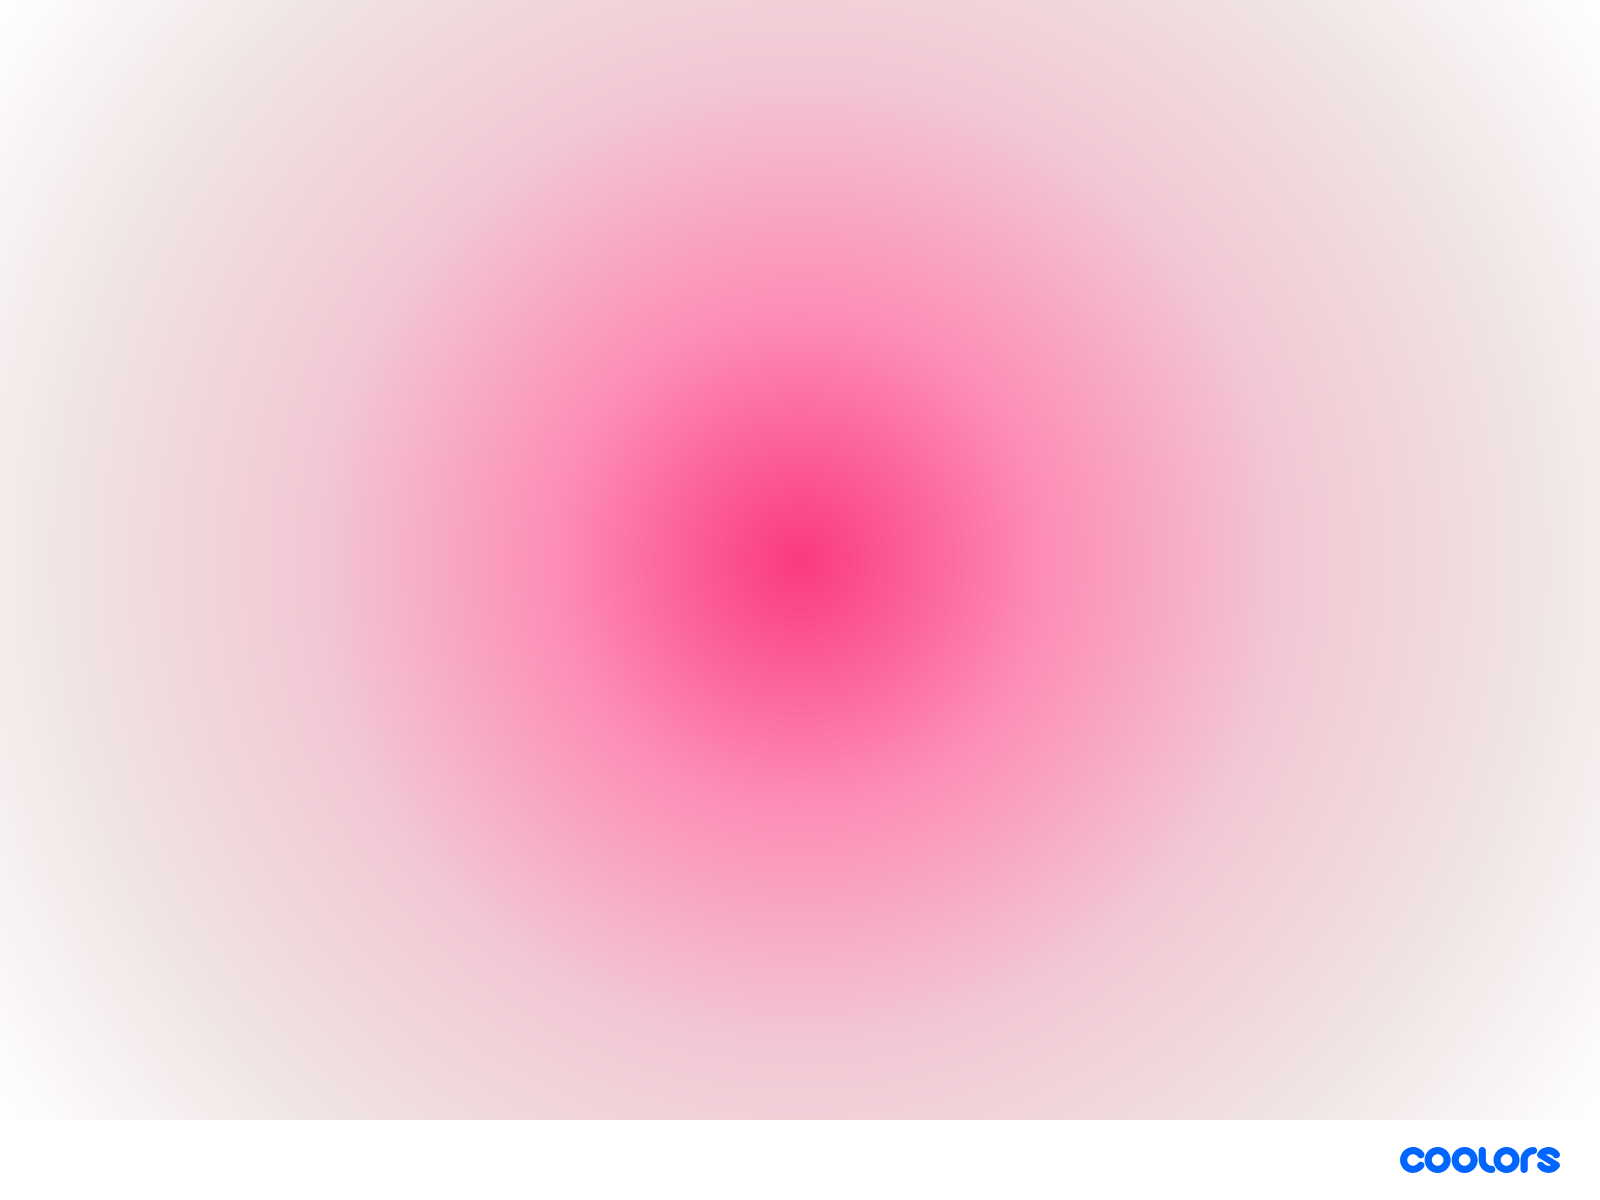
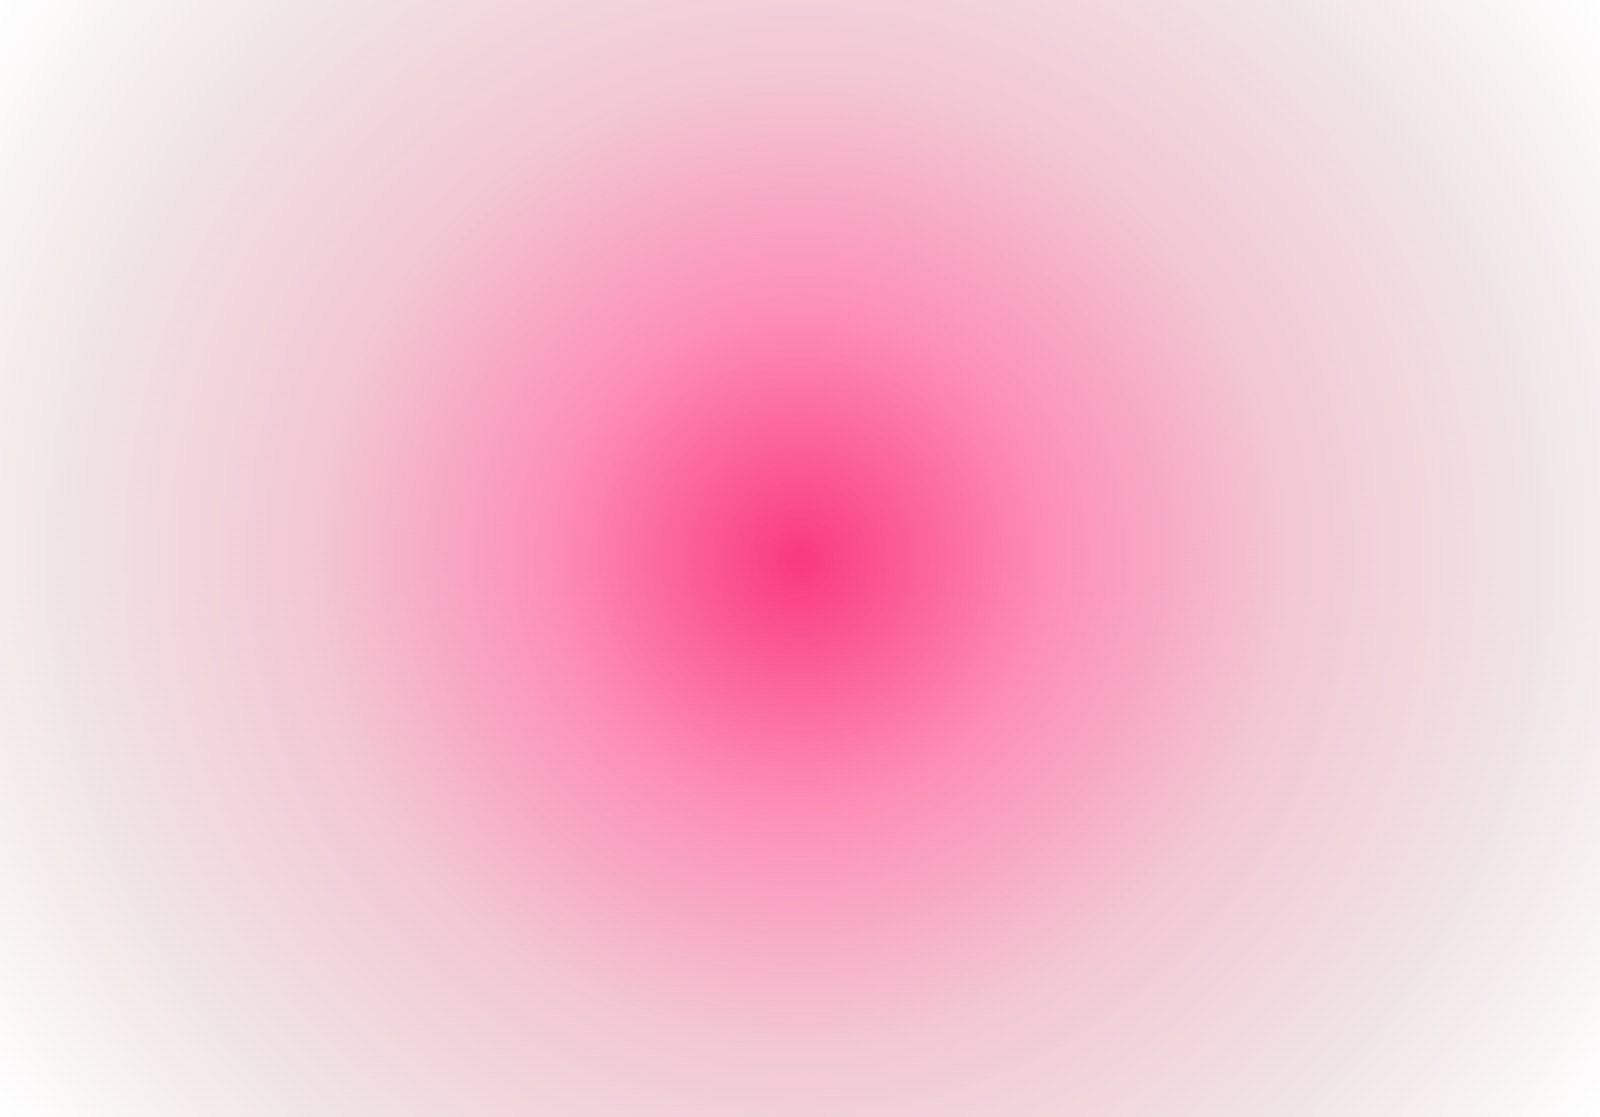
Updated gradient png and CSS styling for better background image and profile photo

Changed region(s): [[0.125, 0.9132, 1.0, 1.0]]

diff --git a/app/static/style.css b/app/static/style.css
@@ -6,6 +6,38 @@
     color: #FA3980 !important;
 }
 
-.circle{
-    background-color: #FA3980;
+#profile-circle {
+    background-color: #FA3980; /* Pink background */
+    border-radius: 50%; /* Makes it a circle */
+}
+
+#background {
+    position: relative; /* Ensure positioning for pseudo-element */
+    height: 100vh;
+    width: 100%;
+}
+
+#background::before {
+    content: ""; /* Creates a pseudo-element */
+    position: absolute;
+    top: 0;
+    left: 0;
+    height: 100%;
+    width: 100%;
+    background-image: url('../static/gradient.png');
+    background-size: cover;
+    background-repeat: no-repeat;
+    background-position: center;
+    background-attachment: fixed;
+    opacity: 0.5; /* Only the background image is semi-transparent */
+    z-index: -1; /* Places the pseudo-element behind the content */
+}
+
+#navbar {
+    height: 7.5%;
+    position: center;
+}
+
+#brand-name {
+    font-size: 6rem;
 }
